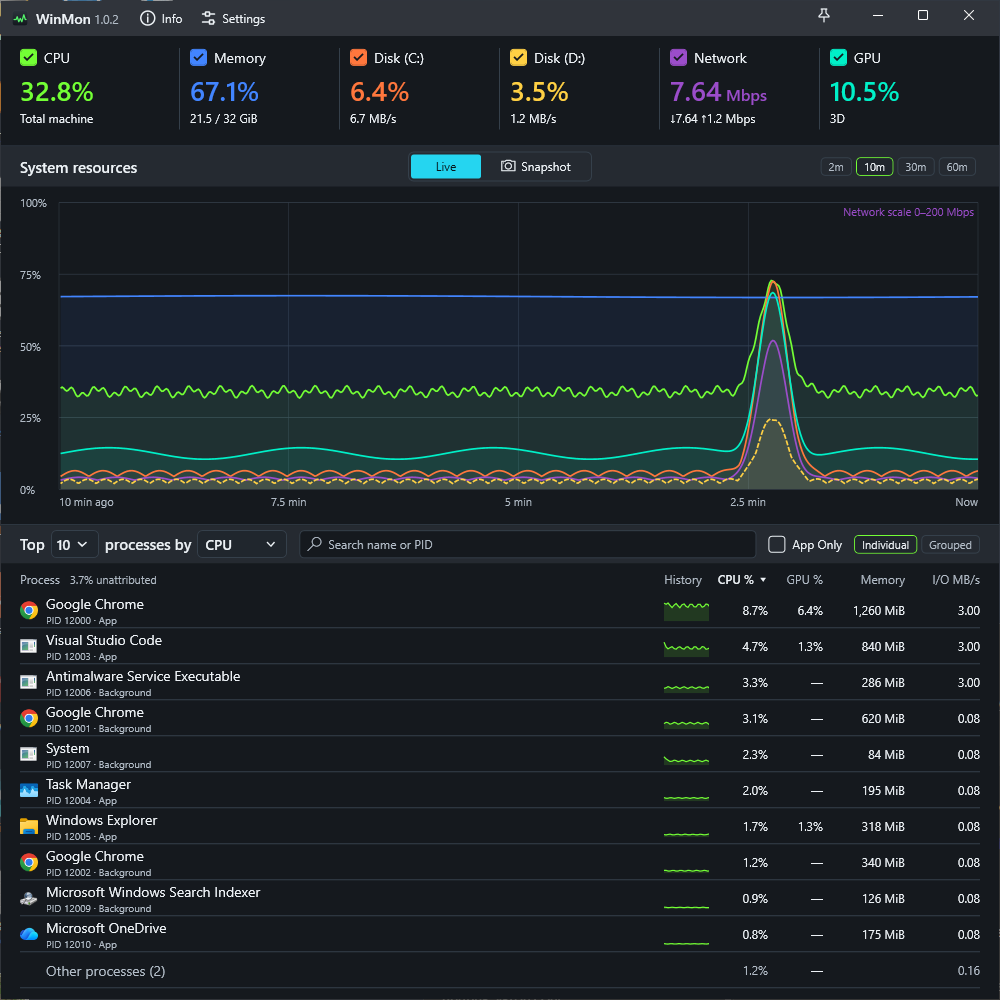
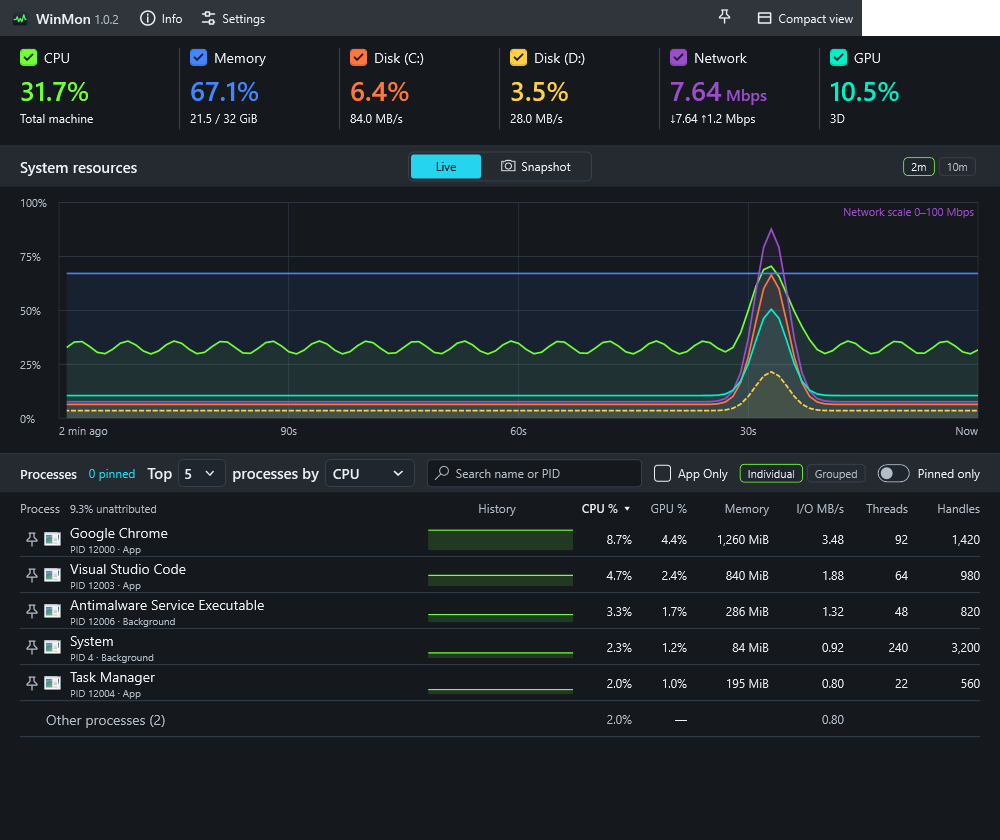
Refresh README and screenshots for current WinMon features

diff --git a/src/WinMon/MainWindow.Examples.cs b/src/WinMon/MainWindow.Examples.cs
@@ -1,0 +1,110 @@
+using System.Diagnostics;
+using System.Windows;
+using WinMon.Monitoring;
+using WinMon.Preferences;
+
+namespace WinMon;
+
+public partial class MainWindow
+{
+    /// <summary>Render README examples with illustrative data and isolated, English preferences.</summary>
+    internal static async Task CaptureExamplesAsync(string output, CancellationToken cancellationToken)
+    {
+        AppLanguages.Apply("en");
+        var fixture = new MainWindow(true) { Width = 1000, Height = 840 };
+        fixture._preferences = new MonitorPreferences { Theme = "Dark", PrimaryDrive = "C:", SecondaryDrive = "D:" };
+        var chrome = Process(12000, "chrome", "Google Chrome", 8.7, 1260, 92, 1420);
+        var code = Process(12003, "Code", "Visual Studio Code", 4.7, 840, 64, 980);
+        ProcessUsage[] processes =
+        [
+            chrome, code,
+            Process(12001, "chrome", "Google Chrome", 1.2, 360, 28, 420) with { HasAppWindow = false },
+            Process(12006, "MsMpEng", "Antimalware Service Executable", 3.3, 286, 48, 820) with { HasAppWindow = false },
+            Process(4, "System", "System", 2.3, 84, 240, 3200) with { HasAppWindow = false },
+            Process(12004, "Taskmgr", "Task Manager", 2, 195, 22, 560),
+            Process(12010, "OneDrive", "Microsoft OneDrive", 0.8, 175, 36, 740)
+        ];
+        var anchor = new DateTimeOffset(2026, 10, 22, 10, 24, 0, TimeSpan.FromHours(-5));
+        for (var i = 0; i < 120; i++)
+        {
+            var pulse = Math.Exp(-Math.Pow((i - 92) / 3d, 2));
+            fixture._history.Add(new CpuSample(anchor.AddSeconds(i - 119), 32.8 + 40 * pulse + 3 * Math.Sin(i),
+                processes, 0, MonotonicTimestamp: Stopwatch.Frequency * (i + 1))
+            {
+                Resources = new ResourceSample
+                {
+                    UsedMemoryBytes = 23_056_165_683, TotalMemoryBytes = 32UL * 1_073_741_824,
+                    DiskName = "C:", DiskActivePercent = 6.4 + 60 * pulse, DiskBytesPerSecond = 84_000_000,
+                    SecondaryDiskName = "D:", SecondaryDiskActivePercent = 3.5 + 18 * pulse, SecondaryDiskBytesPerSecond = 28_000_000,
+                    GpuId = "illustrative-adapter", GpuEngine = "3D", GpuPercent = 10.5 + 40 * pulse,
+                    NetworkId = "fixture", NetworkName = "Ethernet", LinkBitsPerSecond = 1_000_000_000,
+                    ReceiveBytesPerSecond = 955_000 + 10_000_000 * pulse, SendBytesPerSecond = 150_000
+                }
+            });
+        }
+        await Draw("individual");
+        fixture.GroupedChip.IsChecked = true;
+        await Draw("grouped");
+        fixture.AppsOnlyCheckBox.IsChecked = true;
+        fixture.ProcessSearchBox.Text = "chrome";
+        await Draw("apps_only");
+        fixture.AppsOnlyCheckBox.IsChecked = false;
+        fixture.ProcessSearchBox.Clear();
+        fixture.IndividualChip.IsChecked = true;
+        fixture.ToggleProcessPin(code, false);
+        fixture.ToggleProcessPin(chrome, false);
+        await Draw("pinned", 1000, 940);
+        fixture.PinnedOnlyCheckBox.IsChecked = true;
+        await Draw("pinned_only");
+        fixture.PinnedOnlyCheckBox.IsChecked = false;
+        fixture._selectedSample = fixture._history.Samples[92];
+        await Draw("snapshot", 1000, 940);
+        fixture._selectedSample = null;
+        fixture.ToggleProcessPin(code, false);
+        fixture.ToggleProcessPin(chrome, false);
+        fixture.GroupedChip.IsChecked = true;
+        fixture._preferences = fixture._preferences with { Theme = "Light" };
+        await Draw("light");
+        fixture._preferences = fixture._preferences with { Theme = "Dark" };
+        foreach (var palette in new[] { "Neon", "Arcade", "Tropical" })
+        {
+            fixture._preferences = fixture._preferences with { ChartPalette = palette };
+            await Draw(palette.ToLowerInvariant());
+        }
+        fixture._preferences = fixture._preferences with { ChartPalette = "Neon" };
+        fixture.ApplyTheme();
+        var settings = new SettingsWindow(fixture._preferences, checkForUpdates: () => Task.FromResult(Strings.UpToDate));
+        // Measure the complete real Settings content, including controls below the normal scroll viewport.
+        var settingsVisual = (FrameworkElement)settings.Content;
+        settingsVisual.Measure(new Size(480, double.PositiveInfinity));
+        settingsVisual.Arrange(new Rect(new Point(), settingsVisual.DesiredSize));
+        await CaptureVisualAsync(settingsVisual, Path.Combine(output, "example_settings.png"), 1, cancellationToken);
+        fixture._preferences = fixture._preferences with { ChartPalette = "Classic" };
+        fixture.SetCompactView(true);
+        await Draw("compact", 1000, 156);
+        fixture._preferences = fixture._preferences with { Theme = "Light" };
+        await Draw("compact_light", 1000, 156);
+        return;
+
+        async Task Draw(string name, double width = 1000, double height = 840)
+        {
+            fixture._wide = width >= WideWidth;
+            fixture._inlineProcessToolbar = width >= InlineProcessToolbarWidth;
+            fixture._inlinePinToolbar = width >= 1000;
+            fixture.ApplyTheme();
+            fixture.RefreshVisiblePresentation();
+            var visual = (FrameworkElement)fixture.Content;
+            visual.Measure(new Size(width, height));
+            visual.Arrange(new Rect(0, 0, width, height));
+            await CaptureVisualAsync(visual, Path.Combine(output, $"example_{name}.png"), 1, cancellationToken);
+        }
+
+        static ProcessUsage Process(int pid, string name, string app, double cpu, ulong memoryMiB, long threads, long handles) =>
+            new(pid, pid, name, cpu, memoryMiB * 1_048_576, cpu * 400_000)
+            {
+                AppName = app, HasAppWindow = true, PrivateBytes = memoryMiB * 800_000,
+                ThreadCount = threads, HandleCount = handles, GpuPercent = cpu / 2,
+                ImagePath = $@"C:\Apps\{name}.exe", Publisher = "Example publisher"
+            };
+    }
+}

diff --git a/src/WinMon/App.xaml.cs b/src/WinMon/App.xaml.cs
@@ -32,7 +32,7 @@ public partial class App
         AppLanguages.InitializeSystemDisplayCulture(CultureInfo.CurrentUICulture);
         AppLanguages.Apply(AppLanguages.SystemDefault);
 
-        if (e.Args is ["--smoke-output" or "--feature-smoke-output" or "--snapshot-smoke-output" or "--search-smoke-output" or "--compact-smoke-output", _])
+        if (e.Args is ["--smoke-output" or "--feature-smoke-output" or "--snapshot-smoke-output" or "--search-smoke-output" or "--compact-smoke-output" or "--examples-output", _])
         {
             ShutdownMode = ShutdownMode.OnExplicitShutdown;
             base.OnStartup(e);
@@ -40,7 +40,7 @@ public partial class App
                 Path.Combine(Path.GetFullPath(e.Args[1]), "diagnostic-settings.json")));
             MainWindow = window;
             window.Show();
-            _ = RunDiagnosticsAsync(window, Path.GetFullPath(e.Args[1]), e.Args[0] == "--feature-smoke-output", e.Args[0] == "--snapshot-smoke-output", e.Args[0] == "--search-smoke-output", e.Args[0] == "--compact-smoke-output");
+            _ = RunDiagnosticsAsync(window, Path.GetFullPath(e.Args[1]), e.Args[0] == "--feature-smoke-output", e.Args[0] == "--snapshot-smoke-output", e.Args[0] == "--search-smoke-output", e.Args[0] == "--compact-smoke-output", e.Args[0] == "--examples-output");
             return;
         }
         if (e.Args is ["--profile-output", _, ..])
@@ -78,13 +78,18 @@ public partial class App
         MainWindow.Show();
     }
 
-    private async Task RunDiagnosticsAsync(MainWindow window, string output, bool featuresOnly, bool snapshotsOnly = false, bool searchOnly = false, bool compactOnly = false)
+    private async Task RunDiagnosticsAsync(MainWindow window, string output, bool featuresOnly, bool snapshotsOnly = false, bool searchOnly = false, bool compactOnly = false, bool examplesOnly = false)
     {
         var exitCode = 0;
         using var timeout = new CancellationTokenSource(TimeSpan.FromSeconds(60));
         try
         {
-            if (compactOnly)
+            if (examplesOnly)
+            {
+                Directory.CreateDirectory(output);
+                await WinMon.MainWindow.CaptureExamplesAsync(output, timeout.Token);
+            }
+            else if (compactOnly)
             {
                 Directory.CreateDirectory(output);
                 await Task.Delay(TimeSpan.FromSeconds(4), timeout.Token);

diff --git a/README.md b/README.md
@@ -10,17 +10,19 @@ WinMon brings CPU, memory, disk, network and GPU activity into one clear Windows
 
 ![WinMon live dashboard showing CPU, memory, two disks, network and GPU activity above individual process rankings](example/example_individual.png)
 
-*Screenshots show WinMon 1.0.2 with illustrative sample data.*
+*Screenshots captured October 22, 2026 from the current source (version 1.0.2), using illustrative sample data. See the [example gallery](example/README.md) for all views and capture instructions.*
 
 ## Your system, at a glance
 
 Keep the whole picture in view while you work, play or troubleshoot. WinMon puts live resource readings above a shared timeline, so you can see how CPU spikes, disk activity and network transfers line up.
 
 - **Watch the resources that matter.** Monitor CPU, physical memory, GPU, network throughput and up to two disk volumes. Hide individual chart traces to focus the view while recording continues.
-- **Find the busiest processes.** Rank by CPU, GPU, memory or I/O, with application icons and history sparklines that follow your selected metric.
+- **Find the busiest processes.** Rank by CPU, GPU, memory, I/O, thread count or handle count, with application icons and history sparklines that follow your selected metric.
 - **Look beyond the latest number.** Switch between 2, 10, 30 and 60-minute chart ranges, subject to your retained history, and inspect earlier samples.
 - **Keep it close.** Pin WinMon above other windows, minimize it to the notification area, or bring it forward with a configurable shortcut.
 - **Use less screen space.** Choose **Compact view** in the title bar for a horizontal strip with live readings and filled two-minute charts inside each resource box. **Full view** restores the dashboard and its size. The selected view is remembered when WinMon closes.
+
+![WinMon Compact view with live CPU, memory, two disks, network and GPU readings over filled history charts](example/example_compact.png)
 
 ## See the app behind the processes
 
@@ -34,11 +36,15 @@ Grouped GPU shows the busiest member; grouped memory uses private bytes to avoid
 
 Search the ranked list by application name, executable name or PID. Turn on **App Only** to focus on processes observed with an application window, and use the **App** / **Background** labels to understand each row. In Grouped mode, an executable is an app when any current member has an app window.
 
-The ranking controls, search field, App Only filter and grouping switches fit on one row at compact 720-DIP widths.
+The ranking controls, search field, App Only filter and grouping switches fit on one row at 720-DIP widths. Pin controls wrap below them in narrower windows. Thread and handle counts show the latest observation at the selected moment; click either column heading to rank by it. Hover over a process name for its publisher metadata and executable path.
 
 **Pin a process** using the pin beside its name or its row menu. Pinned rows stay above the rankings in pin order, with a cyan pin and a subtle background. They do not count toward the Top N limit or appear twice. **Pinned only** hides the ranked rows; search and App Only still filter both sections. Pins remain when a process becomes idle or exits and last until WinMon closes. Individual processes and executable groups have separate pin lists. An individual pin follows one process lifetime, so a reused PID cannot inherit it. Missing historical observations show “Not recorded at this sample”; gaps or uncertain observations show unavailable values.
 
-![WinMon compact view with a chrome search and App Only enabled, showing the grouped Google Chrome result](example/example_apps_only.png)
+![WinMon with a chrome search and App Only enabled, showing the grouped Google Chrome result](example/example_apps_only.png)
+
+![WinMon with Visual Studio Code and Google Chrome pinned above the CPU rankings](example/example_pinned.png)
+
+See the [Pinned only example](example/example_pinned_only.png) for a focused view of those processes.
 
 ## Catch the spike—even after it passes
 
@@ -72,6 +78,8 @@ The three custom palettes keep their supplied colors in both themes. Open an ima
 </details>
 
 Settings also let you choose disk volumes, history retention, startup at sign-in and notification-area behavior. The default show/hide shortcut is **Ctrl+Shift+M**.
+
+Choose **Windows display language** or select English, Simplified Chinese, Russian, Spanish, Brazilian Portuguese, German, Japanese, French, Polish or Korean in Settings. Language changes apply when you save.
 
 Need a hardware overview? **Info** brings together CPU, RAM, graphics adapters, physical drives, local volumes and network adapters. Expand the details or copy the report to share when troubleshooting.
 

diff --git a/example/README.md b/example/README.md
@@ -1,17 +1,32 @@
 # WinMon screenshot examples
 
-Captured October 20, 2026, using the WinMon 1.0.2 WPF application. These examples use illustrative process identities and measurements so the screenshots are consistent and do not expose a user's running processes. They are UI examples, not performance measurements.
+Captured October 22, 2026, using the current WinMon WPF source (version 1.0.2). These examples use illustrative process identities and measurements so the screenshots are consistent and do not expose a user's running processes. They are UI examples, not performance measurements or a claim about an already published release.
 
 | File | View |
 | --- | --- |
-| [example_individual.png](example_individual.png) | Dark live dashboard, individual processes, dual disks and centered Live / Snapshot switch. |
+| [example_individual.png](example_individual.png) | Dark live dashboard with individual processes, Threads / Handles columns, dual disks and centered Live / Snapshot switch. |
 | [example_grouped.png](example_grouped.png) | The same recording grouped by executable, with App / Background labels and private-memory totals. |
-| [example_snapshot.png](example_snapshot.png) | An earlier spike selected in Snapshot mode while the top readouts remain live. |
-| [example_apps_only.png](example_apps_only.png) | Compact 720-DIP layout with a Chrome search and App Only enabled. |
+| [example_snapshot.png](example_snapshot.png) | An earlier spike selected in Snapshot mode, Copy snapshot and pinned process rows, while the top readouts remain live. |
+| [example_apps_only.png](example_apps_only.png) | Chrome search with App Only enabled in Grouped mode. |
+| [example_pinned.png](example_pinned.png) | Visual Studio Code and Google Chrome pinned in insertion order above the CPU rankings. |
+| [example_pinned_only.png](example_pinned_only.png) | Pinned only enabled, hiding the ranked section. |
+| [example_compact.png](example_compact.png) | Dark Compact view with live readings and filled two-minute charts in each resource tile. |
+| [example_compact_light.png](example_compact_light.png) | The same compact strip in Light appearance. |
 | [example_light.png](example_light.png) | Light appearance with the Classic palette. |
 | [example_neon.png](example_neon.png) | Neon palette. |
 | [example_arcade.png](example_arcade.png) | Arcade palette. |
 | [example_tropical.png](example_tropical.png) | Tropical palette. |
-| [example_settings.png](example_settings.png) | Settings with Neon selected, color swatches, keyboard shortcut and dual-disk choices. |
+| [example_settings.png](example_settings.png) | Settings with language selection, Neon swatches, keyboard shortcut, dual disks and automatic update controls. |
 
-The default and palette dashboard views use the same illustrative recording. The settings screenshot shows the real Settings controls; its disk choices reflect the capture machine. The existing snapshot card, process rows and native window controls are rendered by the app.
+The dashboard and compact views use the same illustrative recording. Settings uses the real controls, expanded to show the complete scrollable content; its disk choices reflect the capture machine. Screenshots render the app's WPF content; Windows-composed caption buttons are outside these renders. Generic process icons are used for the illustrative executable paths.
+
+## Regenerate
+
+From the repository root with the SDK pinned in `global.json`:
+
+```powershell
+dotnet build src/WinMon/WinMon.csproj -c Release -m:1 -p:UseSharedCompilation=false --artifacts-path artifacts/examples-build
+& ./artifacts/examples-build/bin/WinMon/release_win-x64/WinMon.exe --examples-output "$PWD/artifacts/readme-examples"
+```
+
+Wait for the app to exit successfully, inspect the `example_*.png` files, then copy them into this directory. A failed capture writes `failure.txt` in the output directory; use a fresh output directory for each run. The diagnostic mode renders in English and does not load or save your normal preferences or copy to the clipboard.

diff --git a/design-qa.md b/design-qa.md
@@ -154,7 +154,6 @@ First pass found two issues: the selected segment inherited white text on cyan, 
 Interaction checks cover empty history disabling Snapshot, selecting the latest interval, live/snapshot selected states, chart clicks, expired selections, Return to live, and repeated snapshots. Unit tests include selecting a newest gap without substituting an older valid reading. The native check holds a snapshot while recording advances, retakes it, then returns to Live. All 359 Debug tests pass. High-contrast colors use Windows highlight/text brushes; actual Windows high-contrast mode and hardware DPI transitions were not manually exercised. Snapshot fixture rendering covers dark/light and 100/150/200 percent bitmap scales.
 
 Final verification: default Debug build succeeded with zero warnings/errors; 359 tests passed; snapshot fixture smoke exited 0; full native smoke exited 0 (artifacts/snapshot-switch/native-layout-refreshed/smoke.json).
-
 ## Snapshot clipboard export — 2026-10-21
 
 Copy snapshot beside Return to live always copies a plain-text summary of the selected historical resources and displayed top processes. Reports retain sorting, grouping, filters, the remainder row, units, unavailable readings and averaging notes. Copy confirms success for two seconds; expired samples cannot be copied.
